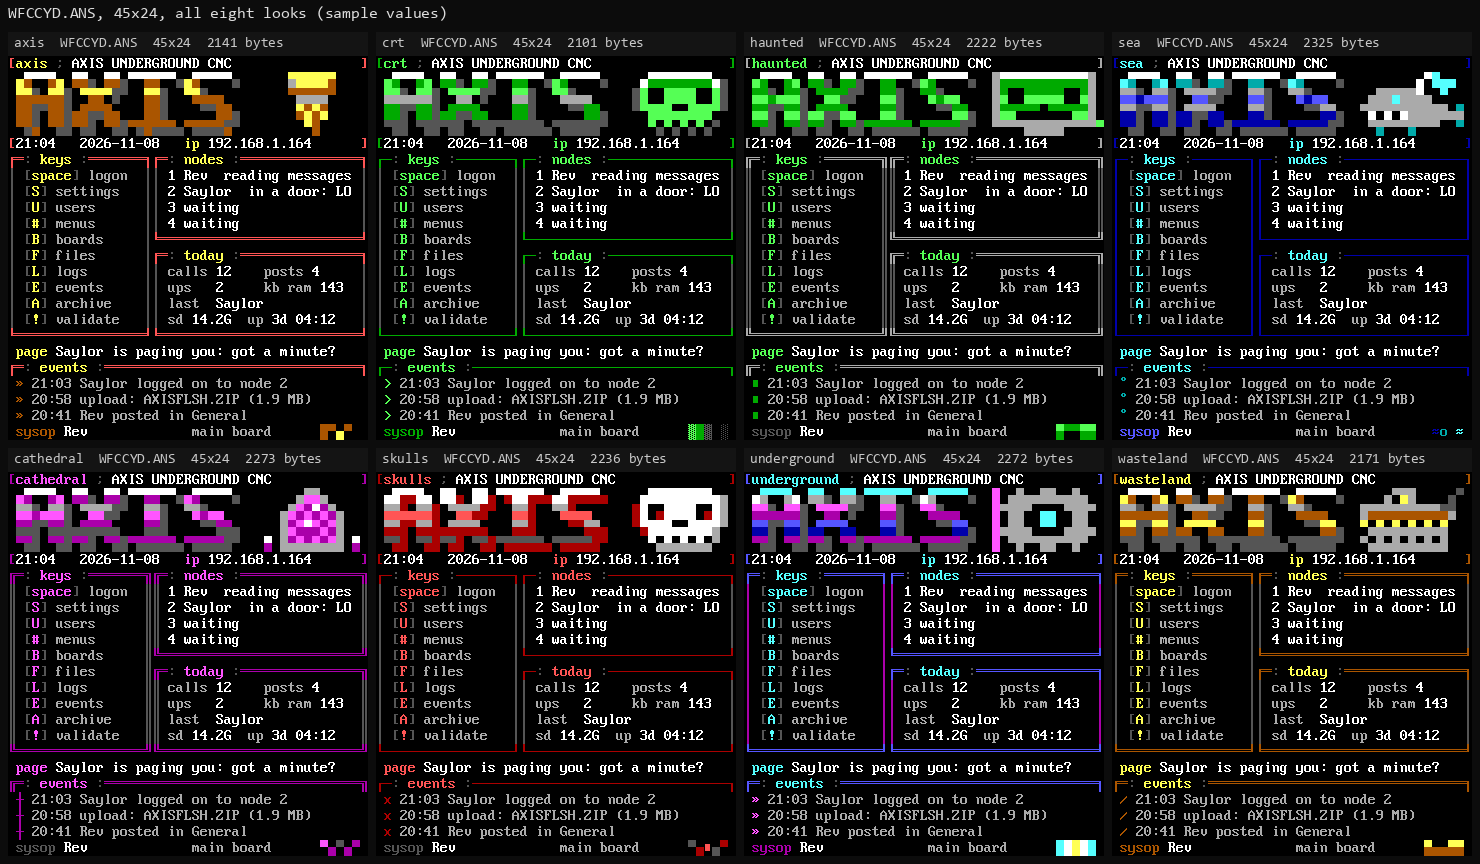
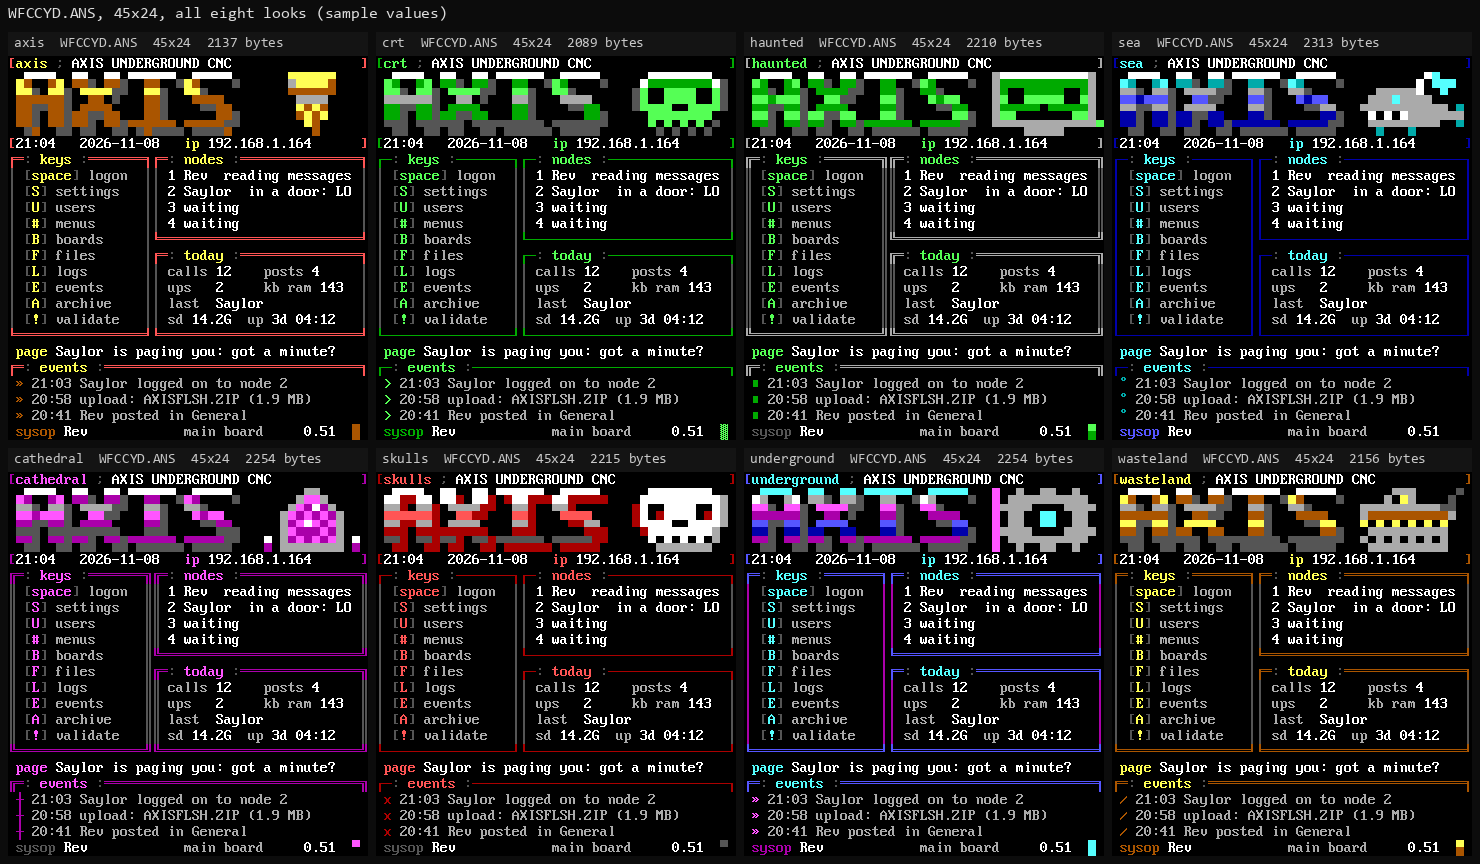
WFC: |VN is the firmware version, shown on the classic and all eight pack WFCs
The classic 80x25 WFC shows it on the title row, the classic board WFC after c n c, the pack WFCs after the sysop (80x25, handle field 20 wide) and after main board (45x24). VN is a required code for the pack generator. Board 1's card has the new pack WFCs; site contact sheets refreshed.

diff --git a/src/platform/cyd/wfccyd_art.h b/src/platform/cyd/wfccyd_art.h
@@ -5,32 +5,32 @@ static const char kWfcCydAns[] =
     "\033[0;1;31m[\033[0;1;33maxis\033[0;37m micro bbs \033[0;1;30m; \033[0;1;37m@BN######################@\033[0;1;31m]\033["
     "0;37m \033[0;1;33m\334\333\337\337\333\334 \333\333  \333\333 \337\337\333\333\337\337 \334\333\337\337\337\337 \033[0;3"
     "7m underground     \033[0;1;31m\333\333\334\334\333\333  \337\333\333\337    \333\333   \337\333\334\334\334  \033[0;37m"
-    " \033[0;1;33mc   n   c\033[0;37m       \033[0;33m\333\333  \333\333 \334\333\337\337\333\334   \333\333       \333\333 "
-    "\033[0;37m @MB##########@  \033[0;33m\337\337  \337\337 \337\337  \337\337 \337\337\337\337\337\337 \337\337\337\337\337 "
-    " \033[0;37m \033[0;1;37m@SN##########@\033[0;37m \033[0;1;31m[\033[0;1;37m@TM###@\033[0;37m \033[0;1;37m@DT########@\033"
-    "[0;1;33m  ip \033[0;1;37m@IP###########@\033[0;1;31m]\033[0;37m   \033[0;1;31m\325\315\033[0;1;30m: \033[0;1;33maxis\033"
-    "[0;1;30m :\033[0;1;31m\315\315\315\315\315\315\270\033[0;37m \033[0;1;31m\325\315\033[0;1;30m: \033[0;1;33mnodes\033[0;1"
-    ";30m :\033[0;1;31m\315\315\315\315\315\315\315\315\315\315\315\315\315\315\270\033[0;37m \033[0;1;30m\263\033[0;37m \033"
-    "[0;1;30m[\033[0;1;33m|KO\033[0;1;30m]\033[0;37m local logon\033[0;1;30m\263\263\033[0;37m \033[0;1;37m@NA###############"
-    "#####@\033[0;1;30m\263\263\033[0;37m \033[0;1;30m[\033[0;1;33m|KS\033[0;1;30m]\033[0;37m settings   \033[0;1;30m\263\263"
-    "\033[0;37m \033[0;1;37m@NB####################@\033[0;1;30m\263\263\033[0;37m \033[0;1;30m[\033[0;1;33m|KU\033[0;1;30m]"
-    "\033[0;37m users      \033[0;1;30m\263\263\033[0;37m \033[0;1;37m@NC####################@\033[0;1;30m\263\263\033[0;37m "
-    "\033[0;1;30m[\033[0;1;33m|KM\033[0;1;30m]\033[0;37m menus      \033[0;1;30m\263\263\033[0;37m \033[0;1;37m@ND############"
-    "########@\033[0;1;30m\263\263\033[0;37m \033[0;1;30m[\033[0;1;33m|KB\033[0;1;30m]\033[0;37m boards     \033[0;1;30m\263"
-    "\033[0;1;31m\324\315\315\315\315\315\315\315\315\315\315\315\315\315\315\315\315\315\315\315\315\315\315\315\315\315\276"
-    "\033[0;1;30m\263\033[0;37m \033[0;1;30m[\033[0;1;33m|KF\033[0;1;30m]\033[0;37m files      \033[0;1;30m\263\033[0;1;31m"
-    "\325\315\033[0;1;30m: \033[0;1;33mtoday\033[0;1;30m :\033[0;1;31m\315\315\315\315\315\315\315\315\315\315\315\315\315\315"
-    "\270\033[0;37m \033[0;1;30m\263\033[0;37m \033[0;1;30m[\033[0;1;33m|KL\033[0;1;30m]\033[0;37m logs       \033[0;1;30m\263"
-    "\263\033[0;37m calls \033[0;1;37m@CT#@\033[0;37m posts \033[0;1;37m@PT#@\033[0;37m \033[0;1;30m\263\263\033[0;37m \033[0;"
-    "1;30m[\033[0;1;33m|KE\033[0;1;30m]\033[0;37m events     \033[0;1;30m\263\263\033[0;37m ups   \033[0;1;37m@UT#@\033[0;37m"
-    " ram \033[0;1;37m@RM##@\033[0;37mk \033[0;1;30m\263\263\033[0;37m \033[0;1;30m[\033[0;1;33m|KA\033[0;1;30m]\033[0;37m ar"
-    "chive    \033[0;1;30m\263\263\033[0;37m last  \033[0;1;37m@LC##############@\033[0;1;30m\263\263\033[0;37m \033[0;1;30m["
-    "\033[0;1;33m|KV\033[0;1;30m]\033[0;37m validate   \033[0;1;30m\263\263\033[0;37m sd \033[0;1;37m@SD###@\033[0;37m up "
-    "\033[0;1;37m@UP######@\033[0;1;30m\263\033[0;1;31m\324\315\315\315\315\315\315\315\315\315\315\315\315\315\315\315\315\276"
-    "\324\315\315\315\315\315\315\315\315\315\315\315\315\315\315\315\315\315\315\315\315\315\315\315\315\315\276\033[0;1;33m "
-    "page \033[0;1;37m@PG###################################@\033[0;1;31m\315\315\033[0;1;30m: \033[0;1;33mevents\033[0;1;30m"
-    " :\033[0;1;31m\315\315\315\315\315\315\315\315\315\315\315\315\315\315\315\315\315\315\315\315\315\315\315\315\315\315"
-    "\315\315\315\315\315\315\315\033[0;37m @EA########################################@ @EB###################################"
-    "#####@ @EC########################################@\033[0;33m (release 11/08/26)\033[0;37m         \033[0;33m(c) jmscnc."
-    "com\033[0;37m  \033[0m"
+    " \033[0;1;33mc   n   c\033[0;37m \033[0;1;37m@VN#@\033[0;37m \033[0;33m\333\333  \333\333 \334\333\337\337\333\334   "
+    "\333\333       \333\333 \033[0;37m @MB##########@  \033[0;33m\337\337  \337\337 \337\337  \337\337 \337\337\337\337\337\337"
+    " \337\337\337\337\337  \033[0;37m \033[0;1;37m@SN##########@\033[0;37m \033[0;1;31m[\033[0;1;37m@TM###@\033[0;37m \033[0"
+    ";1;37m@DT########@\033[0;1;33m  ip \033[0;1;37m@IP###########@\033[0;1;31m]\033[0;37m   \033[0;1;31m\325\315\033[0;1;30m"
+    ": \033[0;1;33maxis\033[0;1;30m :\033[0;1;31m\315\315\315\315\315\315\270\033[0;37m \033[0;1;31m\325\315\033[0;1;30m: "
+    "\033[0;1;33mnodes\033[0;1;30m :\033[0;1;31m\315\315\315\315\315\315\315\315\315\315\315\315\315\315\270\033[0;37m \033[0;1;"
+    "30m\263\033[0;37m \033[0;1;30m[\033[0;1;33m|KO\033[0;1;30m]\033[0;37m local logon\033[0;1;30m\263\263\033[0;37m \033[0;1"
+    ";37m@NA####################@\033[0;1;30m\263\263\033[0;37m \033[0;1;30m[\033[0;1;33m|KS\033[0;1;30m]\033[0;37m settings "
+    "  \033[0;1;30m\263\263\033[0;37m \033[0;1;37m@NB####################@\033[0;1;30m\263\263\033[0;37m \033[0;1;30m[\033[0;"
+    "1;33m|KU\033[0;1;30m]\033[0;37m users      \033[0;1;30m\263\263\033[0;37m \033[0;1;37m@NC####################@\033[0;1;3"
+    "0m\263\263\033[0;37m \033[0;1;30m[\033[0;1;33m|KM\033[0;1;30m]\033[0;37m menus      \033[0;1;30m\263\263\033[0;37m \033["
+    "0;1;37m@ND####################@\033[0;1;30m\263\263\033[0;37m \033[0;1;30m[\033[0;1;33m|KB\033[0;1;30m]\033[0;37m boards"
+    "     \033[0;1;30m\263\033[0;1;31m\324\315\315\315\315\315\315\315\315\315\315\315\315\315\315\315\315\315\315\315\315"
+    "\315\315\315\315\315\276\033[0;1;30m\263\033[0;37m \033[0;1;30m[\033[0;1;33m|KF\033[0;1;30m]\033[0;37m files      \033[0;1;"
+    "30m\263\033[0;1;31m\325\315\033[0;1;30m: \033[0;1;33mtoday\033[0;1;30m :\033[0;1;31m\315\315\315\315\315\315\315\315\315"
+    "\315\315\315\315\315\270\033[0;37m \033[0;1;30m\263\033[0;37m \033[0;1;30m[\033[0;1;33m|KL\033[0;1;30m]\033[0;37m logs  "
+    "     \033[0;1;30m\263\263\033[0;37m calls \033[0;1;37m@CT#@\033[0;37m posts \033[0;1;37m@PT#@\033[0;37m \033[0;1;30m\263"
+    "\263\033[0;37m \033[0;1;30m[\033[0;1;33m|KE\033[0;1;30m]\033[0;37m events     \033[0;1;30m\263\263\033[0;37m ups   \033["
+    "0;1;37m@UT#@\033[0;37m ram \033[0;1;37m@RM##@\033[0;37mk \033[0;1;30m\263\263\033[0;37m \033[0;1;30m[\033[0;1;33m|KA\033"
+    "[0;1;30m]\033[0;37m archive    \033[0;1;30m\263\263\033[0;37m last  \033[0;1;37m@LC##############@\033[0;1;30m\263\263"
+    "\033[0;37m \033[0;1;30m[\033[0;1;33m|KV\033[0;1;30m]\033[0;37m validate   \033[0;1;30m\263\263\033[0;37m sd \033[0;1;37m@S"
+    "D###@\033[0;37m up \033[0;1;37m@UP######@\033[0;1;30m\263\033[0;1;31m\324\315\315\315\315\315\315\315\315\315\315\315"
+    "\315\315\315\315\315\276\324\315\315\315\315\315\315\315\315\315\315\315\315\315\315\315\315\315\315\315\315\315\315\315"
+    "\315\315\276\033[0;1;33m page \033[0;1;37m@PG###################################@\033[0;1;31m\315\315\033[0;1;30m: \033[0;1"
+    ";33mevents\033[0;1;30m :\033[0;1;31m\315\315\315\315\315\315\315\315\315\315\315\315\315\315\315\315\315\315\315\315\315"
+    "\315\315\315\315\315\315\315\315\315\315\315\315\033[0;37m @EA########################################@ @EB#############"
+    "###########################@ @EC########################################@\033[0;33m (release 11/08/26)\033[0;37m        "
+    " \033[0;33m(c) jmscnc.com\033[0;37m  \033[0m"
     ;

diff --git a/src/bbs/wfc80_art.h b/src/bbs/wfc80_art.h
@@ -4,7 +4,7 @@
 static const int kWfc80Rows = 25;  // the rows that are drawn
 static const uint8_t kWfc80Art[25][80][2] = {
   {{201,8},{205,8},{205,8},{205,8},{205,8},{205,8},{205,8},{205,8},{205,8},{205,8},{205,8},{205,8},{205,8},{205,8},{205,8},{205,8},{205,8},{205,8},{205,8},{205,8},{205,8},{205,8},{205,8},{205,8},{205,8},{205,8},{205,8},{205,8},{205,8},{205,8},{205,8},{205,8},{205,8},{205,8},{205,8},{205,8},{205,8},{205,8},{205,8},{205,8},{205,8},{205,8},{205,8},{205,8},{205,8},{205,8},{205,8},{205,8},{205,8},{205,8},{205,8},{205,8},{205,8},{205,8},{205,8},{205,8},{205,8},{205,8},{205,8},{205,8},{205,8},{205,8},{205,8},{205,8},{205,8},{205,8},{205,8},{205,8},{205,8},{205,8},{205,8},{205,8},{205,8},{205,8},{205,8},{205,8},{205,8},{205,8},{205,8},{187,8}},
-  {{186,8},{32,15},{64,15},{66,15},{78,15},{35,15},{35,15},{35,15},{35,15},{35,15},{35,15},{35,15},{35,15},{35,15},{35,15},{35,15},{35,15},{35,15},{35,15},{35,15},{35,15},{35,15},{35,15},{35,15},{35,15},{35,15},{35,15},{35,15},{35,15},{35,15},{35,15},{35,15},{35,15},{35,15},{35,15},{35,15},{35,15},{35,15},{35,15},{35,15},{35,15},{64,15},{32,7},{32,7},{32,7},{32,7},{32,7},{32,7},{32,7},{32,7},{32,7},{32,7},{32,7},{32,7},{32,7},{32,7},{32,7},{32,7},{32,7},{32,7},{32,7},{32,7},{32,7},{32,7},{64,7},{77,7},{66,7},{35,7},{35,7},{35,7},{35,7},{35,7},{35,7},{35,7},{35,7},{35,7},{35,7},{64,7},{32,7},{186,8}},
+  {{186,8},{32,15},{64,15},{66,15},{78,15},{35,15},{35,15},{35,15},{35,15},{35,15},{35,15},{35,15},{35,15},{35,15},{35,15},{35,15},{35,15},{35,15},{35,15},{35,15},{35,15},{35,15},{35,15},{35,15},{35,15},{35,15},{35,15},{35,15},{35,15},{35,15},{35,15},{35,15},{35,15},{35,15},{35,15},{35,15},{35,15},{35,15},{35,15},{35,15},{35,15},{64,15},{32,7},{32,7},{32,7},{32,7},{32,7},{32,7},{32,7},{32,7},{32,7},{32,7},{32,7},{32,7},{118,7},{64,15},{86,15},{78,15},{35,15},{35,15},{35,15},{35,15},{35,15},{64,15},{64,7},{77,7},{66,7},{35,7},{35,7},{35,7},{35,7},{35,7},{35,7},{35,7},{35,7},{35,7},{35,7},{64,7},{32,7},{186,8}},
   {{186,8},{32,14},{32,14},{32,14},{32,14},{32,14},{32,14},{32,14},{32,14},{32,14},{32,14},{32,14},{32,14},{32,14},{32,14},{32,14},{32,14},{32,14},{32,14},{32,14},{32,14},{32,14},{87,14},{32,14},{65,14},{32,14},{73,14},{32,14},{84,14},{32,14},{73,14},{32,14},{78,14},{32,14},{71,14},{32,14},{32,14},{32,14},{70,14},{32,14},{79,14},{32,14},{82,14},{32,14},{32,14},{32,14},{67,14},{32,14},{65,14},{32,14},{76,14},{32,14},{76,14},{32,14},{69,14},{32,14},{82,14},{32,7},{32,7},{32,7},{32,7},{32,7},{32,7},{32,7},{32,7},{32,7},{32,7},{32,7},{32,7},{32,7},{32,7},{32,7},{32,7},{32,7},{32,7},{32,7},{32,7},{32,7},{32,7},{186,8}},
   {{204,8},{205,8},{205,8},{205,8},{205,8},{205,8},{205,8},{205,8},{205,8},{205,8},{205,8},{205,8},{205,8},{205,8},{205,8},{205,8},{205,8},{205,8},{205,8},{205,8},{205,8},{205,8},{205,8},{205,8},{205,8},{205,8},{205,8},{205,8},{205,8},{205,8},{205,8},{205,8},{205,8},{205,8},{205,8},{205,8},{205,8},{205,8},{205,8},{205,8},{205,8},{205,8},{205,8},{205,8},{205,8},{205,8},{205,8},{205,8},{205,8},{205,8},{205,8},{205,8},{205,8},{205,8},{205,8},{205,8},{205,8},{205,8},{205,8},{205,8},{205,8},{205,8},{205,8},{205,8},{205,8},{205,8},{205,8},{205,8},{205,8},{205,8},{205,8},{205,8},{205,8},{205,8},{205,8},{205,8},{205,8},{205,8},{205,8},{185,8}},
   {{186,8},{32,6},{78,6},{79,6},{68,6},{69,6},{83,6},{32,7},{32,7},{32,7},{32,7},{32,7},{32,7},{32,7},{32,7},{32,7},{32,7},{32,7},{32,7},{32,7},{32,7},{32,7},{32,7},{32,7},{32,7},{32,7},{32,7},{32,7},{32,7},{32,7},{32,7},{32,7},{32,7},{32,7},{32,7},{32,7},{32,7},{32,7},{32,7},{32,7},{32,7},{32,7},{32,7},{32,7},{32,7},{84,6},{79,6},{68,6},{65,6},{89,6},{32,6},{65,6},{78,6},{68,6},{32,6},{83,6},{89,6},{83,6},{84,6},{69,6},{77,6},{32,7},{32,7},{32,7},{32,7},{32,7},{32,7},{32,7},{32,7},{32,7},{32,7},{32,7},{32,7},{32,7},{32,7},{32,7},{32,7},{32,7},{32,7},{186,8}},

diff --git a/tools/art/make_wfc_packs.py b/tools/art/make_wfc_packs.py
@@ -34,7 +34,7 @@ KEYS = {'KS': 'S', 'KU': 'U', 'KM': '#', 'KB': 'B', 'KF': 'F', 'KL': 'L', 'KE': 
 # the keys in the order they are listed: code, the text right after it (the tap label), and the label's lead-in
 KEY_LIST = [('KO', '[space] logon'), ('KS', 'settings'), ('KU', 'users'), ('KM', 'menus'), ('KB', 'boards'),
             ('KF', 'files'), ('KL', 'logs'), ('KE', 'events'), ('KA', 'archive'), ('KV', 'validate')]
-COMMON = ['BN', 'SN', 'MB', 'CT', 'PT', 'UT', 'LC', 'SD', 'RM', 'IP', 'UP', 'TM', 'DT', 'PG'] + list(KEYS)
+COMMON = ['BN', 'SN', 'MB', 'VN', 'CT', 'PT', 'UT', 'LC', 'SD', 'RM', 'IP', 'UP', 'TM', 'DT', 'PG'] + list(KEYS)
 REQUIRED = {80: COMMON + ['N' + c for c in 'ABCDEFGH'] + ['EA', 'EB', 'EC'],
             45: COMMON + ['N' + c for c in 'ABCD'] + ['EA', 'EB', 'EC']}
 
@@ -369,7 +369,7 @@ def check(g, data, size, nodes):
     return labels
 
 
-SAMPLE = {'BN': 'AXIS UNDERGROUND CNC', 'SN': 'Rev', 'MB': 'main board', 'CT': '12', 'PT': '4', 'UT': '2', 'LC': 'Saylor',
+SAMPLE = {'BN': 'AXIS UNDERGROUND CNC', 'SN': 'Rev', 'MB': 'main board', 'VN': '0.51', 'CT': '12', 'PT': '4', 'UT': '2', 'LC': 'Saylor',
           'SD': '14.2G', 'RM': '143', 'IP': '192.168.1.164', 'UP': '3d 04:12', 'TM': '21:04', 'DT': '2026-11-08',
           'NA': '1 Rev  reading messages', 'NB': '2 Saylor  in a door: LORD', 'NC': '3 waiting', 'ND': '4 waiting',
           'EA': '21:03 Saylor logged on to node 2', 'EB': '20:58 upload: AXISFLSH.ZIP (1.9 MB)',
@@ -458,7 +458,9 @@ def wfc80(st):
     g.text(1, 46, st['title80'][:34].center(34), st['hot'])
     g.field(2, 46, 'BN', 34, st['value'])
     x = g.text(3, 46, 'sysop ', st['body'])
-    g.field(3, x, 'SN', 28, st['value'])
+    x = g.field(3, x, 'SN', 20, st['value'])
+    x = g.text(3, x, ' v', st['body'])
+    g.field(3, x, 'VN', 6, st['value'])
     x = g.field(4, 46, 'MB', 15, st['body'])
     x = g.field(4, x + 1, 'TM', 7, st['value'])
     g.field(4, x + 1, 'DT', 10, st['value'])
@@ -543,8 +545,9 @@ def wfccyd(st):
         g.put(20 + i, 1, st['bullet'], st['accent'])
         g.field(20 + i, 3, 'E' + c, 42, st['body'])
     x = g.text(23, 1, 'sysop ', st['foot'])
-    x = g.field(23, x, 'SN', 15, st['value'])
-    x = g.field(23, x + 1, 'MB', 15, st['body'])
+    x = g.field(23, x, 'SN', 14, st['value'])
+    x = g.field(23, x + 1, 'MB', 14, st['body'])
+    x = g.field(23, x + 1, 'VN', 5, st['value'])
     rule(g, 23, x + 1, 44 - x - 1, st, 2)
     return g
 

diff --git a/tests/test_wfc.cpp b/tests/test_wfc.cpp
@@ -1,6 +1,7 @@
 // SPDX-License-Identifier: GPL-3.0-or-later
 // Copyright (C) 2026 Rev. J. Money
 #include "bbs/wfc.h"
+#include "bbs/version.h"
 
 #include "platform/cyd/wfccyd_art.h"
 
@@ -157,4 +158,10 @@ TEST_CASE("the built-in CYD WFC fills 45x24 without scrolling, every key tappabl
         if (h.node == 0 && h.key != ' ') CHECK(wfcKeyAt(spots, h.row, h.col + 4, nullptr) == h.key);
     for (const auto& h : spots)
         if (h.node == 0 && h.key == ' ') CHECK(wfcKeyAt(spots, h.row, h.col + 6, nullptr) == ' ');  // "local logon"
+}
+
+TEST_CASE("|VN is the firmware version on the WFC") {
+    WfcSnapshot s;
+    CHECK(expandArt("v|VN", {}, wfcValues(s)) == std::string("v") + kAxisVersion);
+    CHECK(expandArt("[@VN######@]", {}, wfcValues(s)).find(kAxisVersion) != std::string::npos);
 }

diff --git a/tools/art/make_wfccyd.py b/tools/art/make_wfccyd.py
@@ -90,7 +90,7 @@ def main(path, header, preview=None):
     L, R = 18, 27  # the key box (columns 0..17) and the right column (18..44)
     rows = []
     rows.append(row([(FRAME, '['), (HOT, 'axis'), (BODY, ' micro bbs '), (DIM, '; '), (VALUE, f('BN', 26)), (FRAME, ']')]))
-    right = [[(BODY, 'underground')], [(HOT, 'c   n   c')], [(BODY, f('MB', 14))], [(VALUE, f('SN', 14))]]
+    right = [[(BODY, 'underground')], [(HOT, 'c   n   c'), (BODY, ' '), (VALUE, f('VN', 5))], [(BODY, f('MB', 14))], [(VALUE, f('SN', 14))]]
     for r in range(4):
         rows.append(row([(BODY, ' ')] + logo_row(r) + [(BODY, ' ')] + right[r]))
     rows.append(row([(FRAME, '['), (VALUE, f('TM', 7)), (BODY, ' '), (VALUE, f('DT', 12)), (HOT, '  ip '), (VALUE, f('IP', 15)),

diff --git a/src/bbs/wfc.cpp b/src/bbs/wfc.cpp
@@ -2,6 +2,8 @@
 // Copyright (C) 2026 Rev. J. Money
 #include "bbs/wfc.h"
 
+#include "bbs/version.h"
+
 #include <cctype>
 #include <cstdio>
 
@@ -69,6 +71,7 @@ ArtValue wfcValues(const WfcSnapshot& s) {
         if (k == "DT") return s.date;
         if (k == "PG") return s.page;
         if (k == "MB") return s.main ? "main board" : "follower board";
+        if (k == "VN") return kAxisVersion;  // the firmware version
         if (nodeCode(k)) {
             size_t i = k[1] - 'A';
             return i < s.nodes.size() ? nodeLine(s.nodes[i]) : "";

diff --git a/tools/art/make_wfc80.py b/tools/art/make_wfc80.py
@@ -43,7 +43,7 @@ def rule(l, r):
 
 def main(path):
     rows = [rule(TL, TR)]
-    rows.append(row([(VALUE, ' ' + f('BN', 40)), (LABEL, ' ' * 22), (LABEL, f('MB', 14)), (LABEL, ' ')]))
+    rows.append(row([(VALUE, ' ' + f('BN', 40)), (LABEL, ' ' * 12 + 'v'), (VALUE, f('VN', 9)), (LABEL, f('MB', 14)), (LABEL, ' ')]))
     rows.append(row([(TITLE, ' ' * 21 + 'W A I T I N G   F O R   C A L L E R')]))
     rows.append(rule(ML, MR))
     rows.append(row([(HEAD, ' NODES'), (LABEL, ' ' * 38), (HEAD, 'TODAY AND SYSTEM')]))

diff --git a/docs/WFC-CODES.md b/docs/WFC-CODES.md
@@ -20,6 +20,7 @@ Waiting-for-caller (WFC) screens are ANSI art with pipe codes. Each theme (or WF
 | `EA`..`EE` | Newest five events, newest first |
 | `PG` | Sysop page text |
 | `MB` | "main board" or "follower board" |
+| `VN` | The firmware version, e.g. `0.51` (the classic and all eight pack WFCs show it) |
 
 ## Hotkeys (tappable on the CYD)
 
